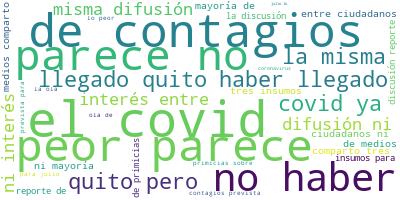
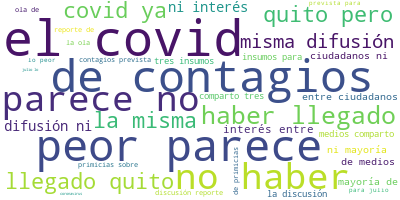
Configuraciones pequeñas

diff --git a/templates/LDA_Visualization.html b/templates/LDA_Visualization.html
@@ -2,10 +2,10 @@
 <link rel="stylesheet" type="text/css" href="https://cdn.rawgit.com/bmabey/pyLDAvis/files/ldavis.v1.0.0.css">
 
 
-<div id="ldavis_el10291402704959600802111671174"></div>
+<div id="ldavis_el6752140016528937584936342769"></div>
 <script type="text/javascript">
 
-var ldavis_el10291402704959600802111671174_data = {"mdsDat": {"x": [-0.32475222250756747, 0.10683390195590083, 0.11824304007929676, 0.09967528047237002], "y": [0.0013994095997082005, -0.18754934014652933, 0.10429597854782896, 0.08185395199899229], "topics": [1, 2, 3, 4], "cluster": [1, 1, 1, 1], "Freq": [55.69374084472656, 22.546977996826172, 13.516884803771973, 8.242401123046875]}, "tinfo": {"Term": ["coronavirus", "covid", "casos", "menos", "misma", "ciudadanos", "discusi\u00f3n", "inter\u00e9s", "primicias", "difusi\u00f3n", "parece", "insumos", "tres", "reporte", "llegado", "ola", "peor", "medios", "comparto", "julio", "haber", "mayor\u00eda", "prevista", "quito", "fracaso", "\u00e9xito", "olvidar", "difunde", "centralista", "cifras", "misma", "ciudadanos", "discusi\u00f3n", "inter\u00e9s", "primicias", "difusi\u00f3n", "parece", "insumos", "reporte", "tres", "llegado", "ola", "peor", "medios", "comparto", "julio", "haber", "mayor\u00eda", "prevista", "quito", "contagios", "modelo", "aunque", "exitoso", "sabemos", "destacado", "salir", "duela", "prensa", "lucha", "covid", "internacional", "casos", "fallecidos", "confirmados", "sem\u00e1foro", "amarillo", "pasar\u00edan", "alistan", "pedernales", "decisi\u00f3n", "tosagua", "frente", "manab\u00ed", "portoviejo", "tomar\u00e1", "ma\u00f1ana", "cambio", "semana", "mientras", "cantones", "urgente", "provincia", "oro", "positivos", "probables", "d\u00edas", "campeonato", "reanudaci\u00f3n", "premierleague", "\u00faltimas", "ascendi\u00f3", "dos", "coronavirus", "covid", "junio", "ecuador", "contagios", "cifras", "oficiales", "p\u00fablica", "salud", "ministerio", "domingo", "present\u00f3", "estudio", "mort\u00edfero", "alem\u00e1n", "hendrik", "cre\u00edamos", "vir\u00f3logo", "bastante", "streeck", "clave", "autor", "cobrar", "quiere", "paciente", "salv\u00f3", "cl\u00ednica", "emergencia", "infobae", "sospechosos", "pol\u00e9mica", "incluir\u00e1", "registros", "anunci\u00f3", "tras", "coronavirus", "junio", "ecuador", "covid", "menos", "d\u00f3lares", "muertos", "mill\u00f3n", "fracaso", "\u00e9xito", "olvidar", "difunde", "centralista", "gratis", "doctor", "muere", "pueblo", "lamentable", "conocido", "nicaragua", "m\u00e9dico", "atend\u00eda", "menos", "italia", "grupo", "vacunas", "astrazeneca", "listas", "acuerdo", "francia", "podr\u00edan", "suministro", "holanda", "firman", "alemania", "finales", "farmac\u00e9utico", "millones", "coronavirus", "covid", "mill\u00f3n", "d\u00f3lares"], "Freq": [24.0, 81.0, 11.0, 7.0, 34.0, 34.0, 34.0, 34.0, 34.0, 34.0, 34.0, 34.0, 34.0, 34.0, 34.0, 34.0, 34.0, 34.0, 34.0, 34.0, 34.0, 34.0, 34.0, 34.0, 5.0, 5.0, 5.0, 5.0, 5.0, 6.0, 33.97970199584961, 33.977298736572266, 33.976131439208984, 33.9749870300293, 33.97352600097656, 33.97194290161133, 33.970848083496094, 33.970458984375, 33.96845245361328, 33.96860122680664, 33.96721649169922, 33.96628952026367, 33.96529769897461, 33.9625358581543, 33.960975646972656, 33.95484924316406, 33.950531005859375, 33.949440002441406, 33.949066162109375, 33.94816207885742, 33.95392608642578, 3.8833329677581787, 2.0559520721435547, 2.055867910385132, 2.055863380432129, 2.0558290481567383, 2.0558221340179443, 2.0558221340179443, 2.055805206298828, 2.0557994842529297, 40.94664001464844, 2.969898223876953, 10.80838680267334, 8.361785888671875, 7.545334339141846, 7.532787799835205, 7.529610633850098, 6.720656871795654, 6.718166351318359, 6.718085289001465, 6.717998027801514, 6.7179059982299805, 6.716792106628418, 6.716370582580566, 6.716288089752197, 6.715101718902588, 6.7139811515808105, 6.713921070098877, 6.7136359214782715, 6.713377475738525, 6.712666034698486, 5.1048078536987305, 4.28826379776001, 4.288029193878174, 2.6533079147338867, 2.644927501678467, 1.8377904891967773, 1.8377881050109863, 1.8377851247787476, 1.8377550840377808, 1.8299899101257324, 1.8299291133880615, 3.47161602973938, 10.871940612792969, 25.561349868774414, 4.254214286804199, 3.210143566131592, 3.5305721759796143, 5.930454730987549, 5.930118083953857, 4.432905197143555, 4.4328813552856445, 4.432243824005127, 3.7782437801361084, 3.778085708618164, 3.770775318145752, 3.051753282546997, 3.0515494346618652, 3.0512008666992188, 3.050093173980713, 3.049628257751465, 3.049628734588623, 3.0494470596313477, 3.0493922233581543, 3.048433542251587, 2.3389275074005127, 2.3389158248901367, 2.3389170169830322, 2.3389153480529785, 2.3389110565185547, 2.3388831615448, 2.3355305194854736, 2.332383155822754, 2.3322861194610596, 2.332082509994507, 2.331812858581543, 2.3316774368286133, 2.3314199447631836, 8.714354515075684, 4.461788177490234, 4.008627891540527, 11.269076347351074, 3.0610105991363525, 2.3389456272125244, 2.3415639400482178, 2.3389151096343994, 4.454372406005859, 4.453939437866211, 4.453823089599609, 4.453351020812988, 4.452757835388184, 1.3886051177978516, 1.3886051177978516, 1.3886018991470337, 1.3885998725891113, 1.3885972499847412, 1.388588786125183, 1.388584017753601, 1.3885806798934937, 1.3885732889175415, 4.453544616699219, 0.7714468836784363, 0.771446168422699, 0.7714444398880005, 0.7714440226554871, 0.7714440226554871, 0.7714434862136841, 0.7714433073997498, 0.7714424729347229, 0.7714425921440125, 0.7714422941207886, 0.771441638469696, 0.7714413404464722, 0.7714402079582214, 0.7714376449584961, 0.7714353203773499, 3.8596322536468506, 3.2418668270111084, 0.7714561820030212, 0.7714488506317139], "Total": [24.0, 81.0, 11.0, 7.0, 34.0, 34.0, 34.0, 34.0, 34.0, 34.0, 34.0, 34.0, 34.0, 34.0, 34.0, 34.0, 34.0, 34.0, 34.0, 34.0, 34.0, 34.0, 34.0, 34.0, 5.0, 5.0, 5.0, 5.0, 5.0, 6.0, 34.57792282104492, 34.57757568359375, 34.57725524902344, 34.57712173461914, 34.57712936401367, 34.57712936401367, 34.57659149169922, 34.57682418823242, 34.57632827758789, 34.57648468017578, 34.57643127441406, 34.57642364501953, 34.5759162902832, 34.57583236694336, 34.57624053955078, 34.57508850097656, 34.57465744018555, 34.574588775634766, 34.57441329956055, 34.57413101196289, 37.84087371826172, 4.42276668548584, 2.594813823699951, 2.5947964191436768, 2.594794511795044, 2.59478759765625, 2.5947864055633545, 2.594787120819092, 2.5947818756103516, 2.5947821140289307, 81.01892852783203, 4.948365688323975, 11.384801864624023, 8.934197425842285, 8.116990089416504, 8.115557670593262, 8.115039825439453, 7.299595355987549, 7.2993035316467285, 7.299289226531982, 7.299278259277344, 7.299266338348389, 7.29913330078125, 7.299084663391113, 7.299077987670898, 7.298940181732178, 7.298803329467773, 7.298800468444824, 7.298759460449219, 7.298727512359619, 7.298646450042725, 5.668006896972656, 4.8511857986450195, 4.851164817810059, 3.217308521270752, 3.216310501098633, 2.4006094932556152, 2.400608539581299, 2.400609254837036, 2.4006059169769287, 2.399679183959961, 2.399672508239746, 4.948215007781982, 24.66024398803711, 81.01892852783203, 9.179734230041504, 7.601770401000977, 37.84087371826172, 6.525536060333252, 6.5255842208862305, 5.093945026397705, 5.093941688537598, 5.094033241271973, 4.3654866218566895, 4.365503311157227, 4.366491794586182, 3.646683692932129, 3.6467177867889404, 3.6467671394348145, 3.6469123363494873, 3.646974802017212, 3.646976947784424, 3.6470000743865967, 3.647007703781128, 3.64713716506958, 2.926053285598755, 2.9260542392730713, 2.9260566234588623, 2.926055669784546, 2.9260523319244385, 2.926053047180176, 2.9265124797821045, 2.9269347190856934, 2.926947593688965, 2.9269776344299316, 2.927013635635376, 2.9270341396331787, 2.9270670413970947, 24.66024398803711, 9.179734230041504, 7.601770401000977, 81.01892852783203, 7.974576473236084, 3.5432283878326416, 4.559365749359131, 3.543231964111328, 5.094605922698975, 5.094753265380859, 5.094755172729492, 5.094905853271484, 5.095026969909668, 2.0013134479522705, 2.001314163208008, 2.001314640045166, 2.001314640045166, 2.001316547393799, 2.001319169998169, 2.0013208389282227, 2.001322031021118, 2.001324415206909, 7.974576473236084, 1.384118914604187, 1.3841192722320557, 1.384119987487793, 1.3841196298599243, 1.384119987487793, 1.3841197490692139, 1.3841198682785034, 1.384119987487793, 1.3841204643249512, 1.3841204643249512, 1.3841204643249512, 1.3841207027435303, 1.3841207027435303, 1.3841215372085571, 1.384122371673584, 24.66024398803711, 81.01892852783203, 3.543231964111328, 3.5432283878326416], "Category": ["Default", "Default", "Default", "Default", "Default", "Default", "Default", "Default", "Default", "Default", "Default", "Default", "Default", "Default", "Default", "Default", "Default", "Default", "Default", "Default", "Default", "Default", "Default", "Default", "Default", "Default", "Default", "Default", "Default", "Default", "Topic1", "Topic1", "Topic1", "Topic1", "Topic1", "Topic1", "Topic1", "Topic1", "Topic1", "Topic1", "Topic1", "Topic1", "Topic1", "Topic1", "Topic1", "Topic1", "Topic1", "Topic1", "Topic1", "Topic1", "Topic1", "Topic1", "Topic1", "Topic1", "Topic1", "Topic1", "Topic1", "Topic1", "Topic1", "Topic1", "Topic1", "Topic1", "Topic2", "Topic2", "Topic2", "Topic2", "Topic2", "Topic2", "Topic2", "Topic2", "Topic2", "Topic2", "Topic2", "Topic2", "Topic2", "Topic2", "Topic2", "Topic2", "Topic2", "Topic2", "Topic2", "Topic2", "Topic2", "Topic2", "Topic2", "Topic2", "Topic2", "Topic2", "Topic2", "Topic2", "Topic2", "Topic2", "Topic2", "Topic2", "Topic2", "Topic2", "Topic2", "Topic2", "Topic3", "Topic3", "Topic3", "Topic3", "Topic3", "Topic3", "Topic3", "Topic3", "Topic3", "Topic3", "Topic3", "Topic3", "Topic3", "Topic3", "Topic3", "Topic3", "Topic3", "Topic3", "Topic3", "Topic3", "Topic3", "Topic3", "Topic3", "Topic3", "Topic3", "Topic3", "Topic3", "Topic3", "Topic3", "Topic3", "Topic3", "Topic3", "Topic3", "Topic3", "Topic3", "Topic3", "Topic3", "Topic3", "Topic4", "Topic4", "Topic4", "Topic4", "Topic4", "Topic4", "Topic4", "Topic4", "Topic4", "Topic4", "Topic4", "Topic4", "Topic4", "Topic4", "Topic4", "Topic4", "Topic4", "Topic4", "Topic4", "Topic4", "Topic4", "Topic4", "Topic4", "Topic4", "Topic4", "Topic4", "Topic4", "Topic4", "Topic4", "Topic4", "Topic4", "Topic4", "Topic4", "Topic4"], "logprob": [30.0, 29.0, 28.0, 27.0, 26.0, 25.0, 24.0, 23.0, 22.0, 21.0, 20.0, 19.0, 18.0, 17.0, 16.0, 15.0, 14.0, 13.0, 12.0, 11.0, 10.0, 9.0, 8.0, 7.0, 6.0, 5.0, 4.0, 3.0, 2.0, 1.0, -3.2734999656677246, -3.2736001014709473, -3.2736001014709473, -3.273699998855591, -3.273699998855591, -3.2737998962402344, -3.2737998962402344, -3.2737998962402344, -3.273900032043457, -3.273900032043457, -3.273900032043457, -3.273900032043457, -3.2739999294281006, -3.2741000652313232, -3.2741000652313232, -3.2743000984191895, -3.274399995803833, -3.274399995803833, -3.274399995803833, -3.2744998931884766, -3.2743000984191895, -5.442599773406982, -6.07859992980957, -6.07859992980957, -6.07859992980957, -6.07859992980957, -6.07859992980957, -6.07859992980957, -6.07859992980957, -6.07859992980957, -3.0869998931884766, -5.7108001708984375, -3.514699935913086, -3.771399974822998, -3.8740999698638916, -3.8757998943328857, -3.876199960708618, -3.9899001121520996, -3.9902000427246094, -3.9902000427246094, -3.990299940109253, -3.990299940109253, -3.9904000759124756, -3.990499973297119, -3.990499973297119, -3.9907000064849854, -3.990799903869629, -3.9909000396728516, -3.9909000396728516, -3.9909000396728516, -3.990999937057495, -4.264900207519531, -4.439199924468994, -4.439199924468994, -4.9191999435424805, -4.922399997711182, -5.286499977111816, -5.286499977111816, -5.286499977111816, -5.286499977111816, -5.2906999588012695, -5.290800094604492, -4.650400161743164, -3.5088999271392822, -2.6540000438690186, -4.4471001625061035, -4.728700160980225, -4.633600234985352, -3.603300094604492, -3.603300094604492, -3.8942999839782715, -3.8942999839782715, -3.8945000171661377, -4.054100036621094, -4.054200172424316, -4.056099891662598, -4.2677001953125, -4.2677001953125, -4.2677998542785645, -4.268199920654297, -4.268400192260742, -4.268400192260742, -4.268400192260742, -4.268400192260742, -4.268799781799316, -4.533699989318848, -4.533699989318848, -4.533699989318848, -4.533699989318848, -4.533699989318848, -4.533699989318848, -4.535099983215332, -4.536499977111816, -4.536499977111816, -4.536600112915039, -4.5366997718811035, -4.536799907684326, -4.536900043487549, -3.218400001525879, -3.8877999782562256, -3.9948999881744385, -2.9612998962402344, -4.264599800109863, -4.533699989318848, -4.532599925994873, -4.533699989318848, -3.3947999477386475, -3.39490008354187, -3.3949999809265137, -3.3951001167297363, -3.39520001411438, -4.560400009155273, -4.560400009155273, -4.560400009155273, -4.560400009155273, -4.560400009155273, -4.560400009155273, -4.560400009155273, -4.560400009155273, -4.560500144958496, -3.3949999809265137, -5.148200035095215, -5.148200035095215, -5.148200035095215, -5.148200035095215, -5.148200035095215, -5.148200035095215, -5.148200035095215, -5.148200035095215, -5.148200035095215, -5.148200035095215, -5.148200035095215, -5.148200035095215, -5.148200035095215, -5.148200035095215, -5.148200035095215, -3.5381999015808105, -3.712599992752075, -5.148200035095215, -5.148200035095215], "loglift": [30.0, 29.0, 28.0, 27.0, 26.0, 25.0, 24.0, 23.0, 22.0, 21.0, 20.0, 19.0, 18.0, 17.0, 16.0, 15.0, 14.0, 13.0, 12.0, 11.0, 10.0, 9.0, 8.0, 7.0, 6.0, 5.0, 4.0, 3.0, 2.0, 1.0, 0.5679000020027161, 0.567799985408783, 0.567799985408783, 0.5677000284194946, 0.5677000284194946, 0.5676000118255615, 0.5676000118255615, 0.5676000118255615, 0.5676000118255615, 0.5676000118255615, 0.5674999952316284, 0.5674999952316284, 0.5674999952316284, 0.5673999786376953, 0.567300021648407, 0.5672000050544739, 0.5670999884605408, 0.5670999884605408, 0.5669999718666077, 0.5669999718666077, 0.47690001130104065, 0.4551999866962433, 0.35249999165534973, 0.35249999165534973, 0.35249999165534973, 0.35249999165534973, 0.35249999165534973, 0.35249999165534973, 0.35249999165534973, 0.35249999165534973, -0.09709999710321426, 0.07479999959468842, 1.437600016593933, 1.4234000444412231, 1.4164999723434448, 1.4150999784469604, 1.4147000312805176, 1.4069000482559204, 1.406599998474121, 1.406599998474121, 1.406599998474121, 1.406599998474121, 1.4063999652862549, 1.4063999652862549, 1.4063999652862549, 1.4062000513076782, 1.4061000347137451, 1.406000018119812, 1.406000018119812, 1.406000018119812, 1.405900001525879, 1.3848999738693237, 1.3661999702453613, 1.3661999702453613, 1.2968000173568726, 1.2940000295639038, 1.2223999500274658, 1.2223999500274658, 1.2223999500274658, 1.2223999500274658, 1.218500018119812, 1.218500018119812, 1.135200023651123, 0.6705999970436096, 0.335999995470047, 0.7204999923706055, 0.6274999976158142, -0.8823999762535095, 1.9055999517440796, 1.905500054359436, 1.8622000217437744, 1.8622000217437744, 1.8621000051498413, 1.8567999601364136, 1.8566999435424805, 1.854599952697754, 1.823099970817566, 1.823099970817566, 1.8229000568389893, 1.8224999904632568, 1.8223999738693237, 1.8223999738693237, 1.8222999572753906, 1.8222999572753906, 1.8219000101089478, 1.7773000001907349, 1.7773000001907349, 1.7773000001907349, 1.7773000001907349, 1.7773000001907349, 1.7771999835968018, 1.7756999731063843, 1.7741999626159668, 1.7740999460220337, 1.7740000486373901, 1.773900032043457, 1.773800015449524, 1.7736999988555908, 0.9610000252723694, 1.2798000574111938, 1.361299991607666, 0.028599999845027924, 1.0436999797821045, 1.5858999490737915, 1.3349000215530396, 1.5858999490737915, 2.361599922180176, 2.3615000247955322, 2.3613998889923096, 2.361299991607666, 2.3610999584198, 2.1303999423980713, 2.1303999423980713, 2.1303999423980713, 2.1303999423980713, 2.1303999423980713, 2.1303999423980713, 2.1303999423980713, 2.1303999423980713, 2.1303000450134277, 1.9133000373840332, 1.9112999439239502, 1.9112999439239502, 1.9112999439239502, 1.9112999439239502, 1.9112999439239502, 1.9112999439239502, 1.9112999439239502, 1.9112999439239502, 1.9112999439239502, 1.9112999439239502, 1.9112999439239502, 1.9112999439239502, 1.9112999439239502, 1.9112999439239502, 1.9112999439239502, 0.6413000226020813, -0.7226999998092651, 0.9714000225067139, 0.9714000225067139]}, "token.table": {"Topic": [4, 4, 3, 2, 2, 3, 2, 4, 4, 1, 3, 3, 2, 2, 2, 2, 4, 3, 1, 3, 3, 3, 1, 2, 4, 1, 2, 1, 2, 3, 4, 1, 2, 3, 4, 3, 2, 1, 4, 1, 1, 4, 3, 1, 2, 1, 2, 3, 4, 2, 3, 3, 3, 1, 2, 4, 4, 4, 4, 4, 2, 4, 4, 1, 3, 4, 3, 3, 1, 1, 3, 1, 4, 1, 2, 3, 4, 4, 1, 1, 2, 1, 2, 1, 3, 4, 2, 4, 3, 4, 3, 1, 1, 3, 4, 2, 3, 4, 4, 3, 1, 4, 2, 3, 1, 2, 2, 1, 4, 3, 2, 2, 2, 1, 3, 1, 1, 2, 2, 4, 3, 3, 1, 2, 3, 1, 1, 1, 3, 3, 2, 2, 3, 3, 4, 2, 2, 3, 1, 2, 4, 3, 4, 2], "Freq": [0.722480833530426, 0.7224803566932678, 0.822657585144043, 0.9589955806732178, 0.9858238697052002, 0.6832855343818665, 0.8334470391273499, 0.7224808931350708, 0.4996691048145294, 0.7707682251930237, 0.8225629925727844, 0.8225991129875183, 0.9590616822242737, 0.8331220746040344, 0.9590819478034973, 0.9662004113197327, 0.7850792407989502, 0.9194647073745728, 0.9832962155342102, 0.8225921988487244, 0.6835147738456726, 0.6835145354270935, 0.9833341836929321, 0.9855870008468628, 0.4996704161167145, 0.8984993100166321, 0.10570580512285233, 0.04055109992623329, 0.4460620880126953, 0.3649598956108093, 0.16220439970493317, 0.5060545802116394, 0.3209126591682434, 0.1357707381248474, 0.03702838346362114, 0.8226136565208435, 0.9589989185333252, 0.7707759737968445, 0.7850978970527649, 0.9833089113235474, 0.9833053350448608, 0.49967166781425476, 0.9162781238555908, 0.20209307968616486, 0.6062792539596558, 0.7707761526107788, 0.8331217765808105, 0.5644569993019104, 0.2822284996509552, 0.39464491605758667, 0.5261932015419006, 0.6835145950317383, 0.9160672426223755, 0.7707733511924744, 0.8954357504844666, 0.7224798798561096, 0.7224803566932678, 0.7224804759025574, 0.7851441502571106, 0.7224807739257812, 0.9590179920196533, 0.4996718466281891, 0.7224810719490051, 0.9833792448043823, 0.82264643907547, 0.7224804759025574, 0.6832987070083618, 0.6834073066711426, 0.9833176136016846, 0.6062607765197754, 0.4041738510131836, 0.9833091497421265, 0.7224812507629395, 0.9833669662475586, 0.43574246764183044, 0.43574246764183044, 0.499671071767807, 0.7224807143211365, 0.9833287596702576, 0.7707776427268982, 0.9590243697166443, 0.9833812117576599, 0.959061324596405, 0.9833458065986633, 0.3761955201625824, 0.5015940070152283, 0.9590712785720825, 0.7224794626235962, 0.5644564032554626, 0.2822282016277313, 0.785232424736023, 0.9832863807678223, 0.904411256313324, 0.822665274143219, 0.4996715486049652, 0.4386574923992157, 0.4386574923992157, 0.4996697008609772, 0.49966999888420105, 0.9194579124450684, 0.9833289980888367, 0.7851211428642273, 0.8245442509651184, 0.6835137605667114, 0.9833242297172546, 0.9589572548866272, 0.9589974880218506, 0.9833434224128723, 0.7224807143211365, 0.6833056807518005, 0.9590252637863159, 0.9324564337730408, 0.8331230282783508, 0.770777702331543, 0.9162746667861938, 0.9833861589431763, 0.9833089113235474, 0.9327457547187805, 0.8245406746864319, 0.4996715486049652, 0.7852460145950317, 0.6835143566131592, 0.983394205570221, 0.8331218361854553, 0.6832903027534485, 0.9833316802978516, 0.7707739472389221, 0.7707763314247131, 0.7852465510368347, 0.6835139989852905, 0.9590671062469482, 0.9857609868049622, 0.6833087205886841, 0.8225938677787781, 0.7224804759025574, 0.9590433239936829, 0.9590004682540894, 0.6832778453826904, 0.9833272695541382, 0.8821443319320679, 0.7224807143211365, 0.8225995898246765, 0.7851214408874512, 0.8334447145462036], "Term": ["acuerdo", "alemania", "alem\u00e1n", "alistan", "amarillo", "anunci\u00f3", "ascendi\u00f3", "astrazeneca", "atend\u00eda", "aunque", "autor", "bastante", "cambio", "campeonato", "cantones", "casos", "centralista", "cifras", "ciudadanos", "clave", "cl\u00ednica", "cobrar", "comparto", "confirmados", "conocido", "contagios", "contagios", "coronavirus", "coronavirus", "coronavirus", "coronavirus", "covid", "covid", "covid", "covid", "cre\u00edamos", "decisi\u00f3n", "destacado", "difunde", "difusi\u00f3n", "discusi\u00f3n", "doctor", "domingo", "dos", "dos", "duela", "d\u00edas", "d\u00f3lares", "d\u00f3lares", "ecuador", "ecuador", "emergencia", "estudio", "exitoso", "fallecidos", "farmac\u00e9utico", "finales", "firman", "fracaso", "francia", "frente", "gratis", "grupo", "haber", "hendrik", "holanda", "incluir\u00e1", "infobae", "insumos", "internacional", "internacional", "inter\u00e9s", "italia", "julio", "junio", "junio", "lamentable", "listas", "llegado", "lucha", "manab\u00ed", "mayor\u00eda", "ma\u00f1ana", "medios", "menos", "menos", "mientras", "millones", "mill\u00f3n", "mill\u00f3n", "ministerio", "misma", "modelo", "mort\u00edfero", "muere", "muertos", "muertos", "m\u00e9dico", "nicaragua", "oficiales", "ola", "olvidar", "oro", "paciente", "parece", "pasar\u00edan", "pedernales", "peor", "podr\u00edan", "pol\u00e9mica", "portoviejo", "positivos", "premierleague", "prensa", "present\u00f3", "prevista", "primicias", "probables", "provincia", "pueblo", "p\u00fablica", "quiere", "quito", "reanudaci\u00f3n", "registros", "reporte", "sabemos", "salir", "salud", "salv\u00f3", "semana", "sem\u00e1foro", "sospechosos", "streeck", "suministro", "tomar\u00e1", "tosagua", "tras", "tres", "urgente", "vacunas", "vir\u00f3logo", "\u00e9xito", "\u00faltimas"]}, "R": 30, "lambda.step": 0.01, "plot.opts": {"xlab": "PC1", "ylab": "PC2"}, "topic.order": [4, 1, 3, 2]};
+var ldavis_el6752140016528937584936342769_data = {"mdsDat": {"x": [-0.27420700352518695, 0.17820986624939616, 0.05048745802631038, 0.04550967924948038], "y": [0.05470658168853159, 0.13788388917289274, -0.16204236674284966, -0.030548104118574664], "topics": [1, 2, 3, 4], "cluster": [1, 1, 1, 1], "Freq": [69.9549789428711, 17.340044021606445, 10.46790599822998, 2.2370641231536865]}, "tinfo": {"Term": ["coronavirus", "covid", "\u00e9xito", "menos", "contagios", "fracaso", "olvidar", "difunde", "centralista", "amarillo", "sem\u00e1foro", "ma\u00f1ana", "pasar\u00edan", "manab\u00ed", "tosagua", "semana", "frente", "alistan", "pedernales", "cantones", "portoviejo", "mientras", "cambio", "decisi\u00f3n", "tomar\u00e1", "fallecidos", "tres", "primicias", "llegado", "haber", "tres", "primicias", "llegado", "haber", "prevista", "mayor\u00eda", "ciudadanos", "reporte", "difusi\u00f3n", "julio", "discusi\u00f3n", "medios", "peor", "quito", "parece", "ola", "insumos", "comparto", "inter\u00e9s", "misma", "oficiales", "cifras", "salud", "p\u00fablica", "urgente", "ministerio", "contagios", "present\u00f3", "provincia", "domingo", "covid", "ecuador", "coronavirus", "junio", "casos", "fallecidos", "confirmados", "fracaso", "difunde", "olvidar", "centralista", "amarillo", "sem\u00e1foro", "pasar\u00edan", "ma\u00f1ana", "manab\u00ed", "tosagua", "semana", "frente", "cantones", "pedernales", "alistan", "mientras", "portoviejo", "cambio", "decisi\u00f3n", "tomar\u00e1", "\u00e9xito", "dos", "quevedo", "reanudaci\u00f3n", "d\u00edas", "premierleague", "campeonato", "menos", "minsaludcol", "circule", "positivos", "covid", "casos", "coronavirus", "mort\u00edfero", "cre\u00edamos", "bastante", "clave", "hendrik", "autor", "streeck", "vir\u00f3logo", "alem\u00e1n", "estudio", "emergencia", "cl\u00ednica", "salv\u00f3", "mill\u00f3n", "d\u00f3lares", "paciente", "cobrar", "quiere", "infobae", "decir", "n\u00famero", "horas", "tungurahua", "ascendi\u00f3", "totaliza", "cifra", "\u00faltimas", "pese", "ven", "bien", "coronavirus", "fallecidos", "covid", "menos", "contagios", "casos", "probables", "confirmados", "vacuna", "contacte", "domicilio", "l\u00ednea", "permanec\u00e9", "cuidarteescuidarnos", "s\u00edntomas", "dudas", "automediques", "ciudadana", "si", "alguien", "vez", "precio", "seguro", "cierto", "china", "larguen", "manual", "aumenta", "existia", "duda", "chinos", "cient\u00edfico", "mueren", "mundo", "atenci\u00f3n", "quedateencasa", "vivir", "superficies", "\u00e9xito", "coronavirus", "covid"], "Freq": [24.0, 89.0, 8.0, 10.0, 38.0, 7.0, 7.0, 7.0, 7.0, 7.0, 7.0, 6.0, 6.0, 6.0, 6.0, 6.0, 6.0, 6.0, 6.0, 6.0, 6.0, 6.0, 6.0, 6.0, 6.0, 9.0, 36.0, 36.0, 36.0, 36.0, 35.73833084106445, 35.73827362060547, 35.73794937133789, 35.73789596557617, 35.737796783447266, 35.73777389526367, 35.73757553100586, 35.73757553100586, 35.73752975463867, 35.73748779296875, 35.737464904785156, 35.73727035522461, 35.73720169067383, 35.737098693847656, 35.736995697021484, 35.73674774169922, 35.73663330078125, 35.73646926879883, 35.736385345458984, 35.73588562011719, 7.708412170410156, 7.708383083343506, 5.839696407318115, 5.83967924118042, 5.8395795822143555, 5.8395304679870605, 35.7469482421875, 4.9053053855896, 4.905224323272705, 4.905195236206055, 69.40850067138672, 7.7140326499938965, 14.269923210144043, 6.774707317352295, 6.7798075675964355, 5.848621368408203, 5.844374656677246, 7.253996849060059, 7.253847122192383, 7.253851890563965, 7.253874778747559, 7.241306304931641, 7.2401604652404785, 6.457016944885254, 6.456346035003662, 6.456681728363037, 6.4564385414123535, 6.456882953643799, 6.455746173858643, 6.455789566040039, 6.455489635467529, 6.4554924964904785, 6.454965591430664, 6.454167366027832, 6.4536824226379395, 6.453633785247803, 6.451665878295898, 7.253974437713623, 4.11459493637085, 1.7645049095153809, 1.7644908428192139, 1.7644712924957275, 1.7644684314727783, 1.764456033706665, 7.2538065910339355, 0.9802780747413635, 0.9802771210670471, 1.7644034624099731, 11.937551498413086, 2.5483028888702393, 2.547881603240967, 2.9225711822509766, 2.9219846725463867, 2.9219021797180176, 2.9213480949401855, 2.92093563079834, 2.9205944538116455, 2.920581579208374, 2.9201669692993164, 2.919959783554077, 2.919764280319214, 2.2444214820861816, 2.2444167137145996, 2.2444205284118652, 2.2444076538085938, 2.2444028854370117, 2.2443909645080566, 2.2443909645080566, 2.2443909645080566, 2.236189842224121, 1.5504355430603027, 1.550255537033081, 1.549899935722351, 1.5497972965240479, 1.5495936870574951, 1.549088716506958, 1.5487350225448608, 1.548429012298584, 1.547722339630127, 1.5477161407470703, 1.5477138757705688, 7.058746814727783, 2.926434278488159, 7.068848609924316, 2.9207212924957275, 2.928252696990967, 2.2394165992736816, 1.5500010251998901, 1.549895167350769, 0.7321838140487671, 0.407958447933197, 0.40795764327049255, 0.40795645117759705, 0.4079551696777344, 0.40795525908470154, 0.40795403718948364, 0.40795403718948364, 0.4079533517360687, 0.40795284509658813, 0.40795210003852844, 0.4072315990924835, 0.40721362829208374, 0.40706732869148254, 0.40705594420433044, 0.40704935789108276, 0.40704554319381714, 0.4069317877292633, 0.40692469477653503, 0.4069015085697174, 0.4068809747695923, 0.40683454275131226, 0.4068039059638977, 0.406781405210495, 0.40675878524780273, 0.40694326162338257, 0.40846818685531616, 0.4079441428184509, 0.08160267025232315, 0.08160244673490524, 0.40679311752319336, 0.7371487021446228, 0.7383221387863159], "Total": [24.0, 89.0, 8.0, 10.0, 38.0, 7.0, 7.0, 7.0, 7.0, 7.0, 7.0, 6.0, 6.0, 6.0, 6.0, 6.0, 6.0, 6.0, 6.0, 6.0, 6.0, 6.0, 6.0, 6.0, 6.0, 9.0, 36.0, 36.0, 36.0, 36.0, 36.19048309326172, 36.19044876098633, 36.19032669067383, 36.190345764160156, 36.190303802490234, 36.190311431884766, 36.19026565551758, 36.19026565551758, 36.190223693847656, 36.190216064453125, 36.190208435058594, 36.19015121459961, 36.19013214111328, 36.19011306762695, 36.19010925292969, 36.19001388549805, 36.190040588378906, 36.18996810913086, 36.1899299621582, 36.18978500366211, 8.158918380737305, 8.158900260925293, 6.290132999420166, 6.290133953094482, 6.290101051330566, 6.290076732635498, 38.954132080078125, 5.35573673248291, 5.355693817138672, 5.35569429397583, 89.1532211303711, 9.541090965270996, 24.613698959350586, 9.483718872070312, 11.64982795715332, 9.053842544555664, 8.456268310546875, 7.742218971252441, 7.742151737213135, 7.742175102233887, 7.742201805114746, 7.73953914642334, 7.739302158355713, 6.95511531829834, 6.954522609710693, 6.955197811126709, 6.955020427703857, 6.955531597137451, 6.954605579376221, 6.954836368560791, 6.95457649230957, 6.954586029052734, 6.954759120941162, 6.953920841217041, 6.954422950744629, 6.9551615715026855, 6.954051494598389, 8.070883750915527, 4.605687618255615, 2.2524092197418213, 2.2524001598358154, 2.252396821975708, 2.2524025440216064, 2.252403497695923, 10.504366874694824, 1.4681439399719238, 1.468143105506897, 3.1866414546966553, 89.1532211303711, 11.64982795715332, 24.613698959350586, 3.4454541206359863, 3.4456372261047363, 3.4456729888916016, 3.4458649158477783, 3.4460179805755615, 3.446129322052002, 3.446134090423584, 3.4463047981262207, 3.4463441371917725, 3.4464235305786133, 2.7557716369628906, 2.7557668685913086, 2.7557759284973145, 2.7557740211486816, 2.75577712059021, 2.755765676498413, 2.755777597427368, 2.755779504776001, 2.7586779594421387, 2.0655264854431152, 2.0657901763916016, 2.0657360553741455, 2.0657296180725098, 2.0658957958221436, 2.0660691261291504, 2.0659449100494385, 2.0660955905914307, 2.0672836303710938, 2.0672800540924072, 2.0672826766967773, 24.613698959350586, 9.053842544555664, 89.1532211303711, 10.504366874694824, 38.954132080078125, 11.64982795715332, 2.998868942260742, 8.456268310546875, 1.3406944274902344, 1.0103068351745605, 1.010308861732483, 1.0103106498718262, 1.0103117227554321, 1.0103119611740112, 1.0103132724761963, 1.0103132724761963, 1.0103144645690918, 1.010314702987671, 1.0103155374526978, 1.0116617679595947, 1.011695384979248, 1.011967658996582, 1.0119894742965698, 1.0119998455047607, 1.0120079517364502, 1.0122195482254028, 1.0122319459915161, 1.0122761726379395, 1.0123140811920166, 1.0124011039733887, 1.012458086013794, 1.0125001668930054, 1.0125421285629272, 1.9464340209960938, 2.392401933670044, 2.87898325920105, 1.374518632888794, 1.3745216131210327, 8.070883750915527, 24.613698959350586, 89.1532211303711], "Category": ["Default", "Default", "Default", "Default", "Default", "Default", "Default", "Default", "Default", "Default", "Default", "Default", "Default", "Default", "Default", "Default", "Default", "Default", "Default", "Default", "Default", "Default", "Default", "Default", "Default", "Default", "Default", "Default", "Default", "Default", "Topic1", "Topic1", "Topic1", "Topic1", "Topic1", "Topic1", "Topic1", "Topic1", "Topic1", "Topic1", "Topic1", "Topic1", "Topic1", "Topic1", "Topic1", "Topic1", "Topic1", "Topic1", "Topic1", "Topic1", "Topic1", "Topic1", "Topic1", "Topic1", "Topic1", "Topic1", "Topic1", "Topic1", "Topic1", "Topic1", "Topic1", "Topic1", "Topic1", "Topic1", "Topic1", "Topic1", "Topic1", "Topic2", "Topic2", "Topic2", "Topic2", "Topic2", "Topic2", "Topic2", "Topic2", "Topic2", "Topic2", "Topic2", "Topic2", "Topic2", "Topic2", "Topic2", "Topic2", "Topic2", "Topic2", "Topic2", "Topic2", "Topic2", "Topic2", "Topic2", "Topic2", "Topic2", "Topic2", "Topic2", "Topic2", "Topic2", "Topic2", "Topic2", "Topic2", "Topic2", "Topic2", "Topic3", "Topic3", "Topic3", "Topic3", "Topic3", "Topic3", "Topic3", "Topic3", "Topic3", "Topic3", "Topic3", "Topic3", "Topic3", "Topic3", "Topic3", "Topic3", "Topic3", "Topic3", "Topic3", "Topic3", "Topic3", "Topic3", "Topic3", "Topic3", "Topic3", "Topic3", "Topic3", "Topic3", "Topic3", "Topic3", "Topic3", "Topic3", "Topic3", "Topic3", "Topic3", "Topic3", "Topic3", "Topic3", "Topic4", "Topic4", "Topic4", "Topic4", "Topic4", "Topic4", "Topic4", "Topic4", "Topic4", "Topic4", "Topic4", "Topic4", "Topic4", "Topic4", "Topic4", "Topic4", "Topic4", "Topic4", "Topic4", "Topic4", "Topic4", "Topic4", "Topic4", "Topic4", "Topic4", "Topic4", "Topic4", "Topic4", "Topic4", "Topic4", "Topic4", "Topic4", "Topic4"], "logprob": [30.0, 29.0, 28.0, 27.0, 26.0, 25.0, 24.0, 23.0, 22.0, 21.0, 20.0, 19.0, 18.0, 17.0, 16.0, 15.0, 14.0, 13.0, 12.0, 11.0, 10.0, 9.0, 8.0, 7.0, 6.0, 5.0, 4.0, 3.0, 2.0, 1.0, -3.457900047302246, -3.457900047302246, -3.457900047302246, -3.457900047302246, -3.457900047302246, -3.457900047302246, -3.457900047302246, -3.457900047302246, -3.457900047302246, -3.457900047302246, -3.457900047302246, -3.457900047302246, -3.457900047302246, -3.457900047302246, -3.457900047302246, -3.457900047302246, -3.457900047302246, -3.457900047302246, -3.457900047302246, -3.457900047302246, -4.991799831390381, -4.991799831390381, -5.269400119781494, -5.269400119781494, -5.269400119781494, -5.269400119781494, -3.4576001167297363, -5.44379997253418, -5.44379997253418, -5.44379997253418, -2.794100046157837, -4.991099834442139, -4.375899791717529, -5.1209001541137695, -5.120100021362305, -5.267899990081787, -5.268599987030029, -3.6577000617980957, -3.6577000617980957, -3.6577000617980957, -3.6577000617980957, -3.6594998836517334, -3.659600019454956, -3.7741000652313232, -3.774199962615967, -3.7741000652313232, -3.774199962615967, -3.7741000652313232, -3.7743000984191895, -3.7743000984191895, -3.7743000984191895, -3.7743000984191895, -3.774399995803833, -3.7744998931884766, -3.774600028991699, -3.774600028991699, -3.774899959564209, -3.6577000617980957, -4.224699974060059, -5.071400165557861, -5.071400165557861, -5.071400165557861, -5.071400165557861, -5.071400165557861, -3.6577000617980957, -5.659200191497803, -5.659200191497803, -5.071499824523926, -3.159600019454956, -4.703800201416016, -4.703999996185303, -4.062099933624268, -4.062300205230713, -4.062300205230713, -4.0625, -4.062699794769287, -4.06279993057251, -4.06279993057251, -4.062900066375732, -4.063000202178955, -4.0630998611450195, -4.326099872589111, -4.326099872589111, -4.326099872589111, -4.326099872589111, -4.326099872589111, -4.326099872589111, -4.326099872589111, -4.326099872589111, -4.329800128936768, -4.696000099182129, -4.696100234985352, -4.696400165557861, -4.696400165557861, -4.696599960327148, -4.696899890899658, -4.6971001625061035, -4.697299957275391, -4.697800159454346, -4.697800159454346, -4.697800159454346, -3.180299997329712, -4.060800075531006, -3.1789000034332275, -4.062699794769287, -4.060200214385986, -4.3282999992370605, -4.696300029754639, -4.696400165557861, -3.90310001373291, -4.48799991607666, -4.48799991607666, -4.48799991607666, -4.48799991607666, -4.48799991607666, -4.48799991607666, -4.48799991607666, -4.48799991607666, -4.48799991607666, -4.48799991607666, -4.489799976348877, -4.489799976348877, -4.490200042724609, -4.490200042724609, -4.490200042724609, -4.490200042724609, -4.490499973297119, -4.490499973297119, -4.490600109100342, -4.490600109100342, -4.490799903869629, -4.490799903869629, -4.490900039672852, -4.490900039672852, -4.490499973297119, -4.486800193786621, -4.48799991607666, -6.097300052642822, -6.097300052642822, -4.490900039672852, -3.896399974822998, -3.8947999477386475], "loglift": [30.0, 29.0, 28.0, 27.0, 26.0, 25.0, 24.0, 23.0, 22.0, 21.0, 20.0, 19.0, 18.0, 17.0, 16.0, 15.0, 14.0, 13.0, 12.0, 11.0, 10.0, 9.0, 8.0, 7.0, 6.0, 5.0, 4.0, 3.0, 2.0, 1.0, 0.34470000863075256, 0.34470000863075256, 0.34470000863075256, 0.34470000863075256, 0.34470000863075256, 0.34470000863075256, 0.34470000863075256, 0.34470000863075256, 0.34470000863075256, 0.34470000863075256, 0.34470000863075256, 0.34470000863075256, 0.34470000863075256, 0.34470000863075256, 0.34470000863075256, 0.34470000863075256, 0.34470000863075256, 0.34470000863075256, 0.34470000863075256, 0.34470000863075256, 0.3005000054836273, 0.3005000054836273, 0.28299999237060547, 0.28299999237060547, 0.28299999237060547, 0.28299999237060547, 0.27140000462532043, 0.2694999873638153, 0.2694999873638153, 0.2694999873638153, 0.10700000077486038, 0.14480000734329224, -0.18780000507831573, 0.020899999886751175, -0.18400000035762787, -0.07970000058412552, -0.01209999993443489, 1.687000036239624, 1.687000036239624, 1.687000036239624, 1.687000036239624, 1.6856000423431396, 1.6855000257492065, 1.6778000593185425, 1.6778000593185425, 1.6778000593185425, 1.6778000593185425, 1.6778000593185425, 1.6777000427246094, 1.6777000427246094, 1.6777000427246094, 1.6777000427246094, 1.6776000261306763, 1.6776000261306763, 1.67739999294281, 1.677299976348877, 1.6771999597549438, 1.645400047302246, 1.6394000053405762, 1.5080000162124634, 1.5080000162124634, 1.5080000162124634, 1.5080000162124634, 1.5080000162124634, 1.3818999528884888, 1.3481999635696411, 1.3481999635696411, 1.1610000133514404, -0.25850000977516174, 0.23229999840259552, -0.5159000158309937, 2.0922999382019043, 2.0920000076293945, 2.0920000076293945, 2.0917000770568848, 2.0915000438690186, 2.091399908065796, 2.091399908065796, 2.091200113296509, 2.091099977493286, 2.0910000801086426, 2.0515999794006348, 2.0515999794006348, 2.0515999794006348, 2.0515999794006348, 2.0515999794006348, 2.0515999794006348, 2.0515999794006348, 2.0515999794006348, 2.0469000339508057, 1.9700000286102295, 1.9697999954223633, 1.969599962234497, 1.969499945640564, 1.9693000316619873, 1.9688999652862549, 1.9687000513076782, 1.968400001525879, 1.9673999547958374, 1.9673999547958374, 1.9673999547958374, 1.0077999830245972, 1.127500057220459, -0.2777999937534332, 0.9768999814987183, -0.3310999870300293, 0.6078000068664551, 1.5968999862670898, 0.5601000189781189, 3.1951000690460205, 2.893199920654297, 2.893199920654297, 2.893199920654297, 2.8931000232696533, 2.8931000232696533, 2.8931000232696533, 2.8931000232696533, 2.8931000232696533, 2.8931000232696533, 2.8931000232696533, 2.890000104904175, 2.890000104904175, 2.8893001079559326, 2.8893001079559326, 2.8893001079559326, 2.88919997215271, 2.8887999057769775, 2.888700008392334, 2.8886001110076904, 2.8884999752044678, 2.8882999420166016, 2.888200044631958, 2.8880999088287354, 2.888000011444092, 2.2348999977111816, 2.032399892807007, 1.845900058746338, 0.9760000109672546, 0.9760000109672546, 0.8123000264167786, 0.29170000553131104, -0.9937000274658203]}, "token.table": {"Topic": [3, 2, 2, 3, 3, 3, 3, 3, 2, 2, 2, 1, 2, 3, 2, 3, 1, 2, 1, 3, 3, 3, 1, 1, 2, 3, 1, 3, 1, 2, 3, 4, 1, 2, 3, 4, 3, 3, 2, 2, 1, 1, 1, 2, 2, 3, 1, 3, 3, 3, 1, 3, 2, 2, 1, 3, 3, 3, 1, 1, 1, 1, 2, 3, 1, 2, 1, 2, 1, 2, 3, 2, 3, 1, 2, 1, 3, 1, 3, 1, 1, 2, 3, 1, 2, 2, 1, 3, 2, 1, 2, 2, 1, 1, 1, 1, 3, 1, 1, 1, 2, 3, 1, 2, 1, 1, 3, 2, 2, 3, 3, 2, 2, 3, 1, 3, 1, 4, 3, 3, 3, 2, 3], "Freq": [0.870487630367279, 0.8627400398254395, 0.9044466018676758, 0.9681030511856079, 0.8359799385070801, 0.8705419301986694, 0.870657205581665, 0.9674535393714905, 0.8627603054046631, 0.8879403471946716, 0.8627089858055115, 0.6008672714233398, 0.2575145363807678, 0.17167635262012482, 0.9041355848312378, 0.9680800437927246, 0.9805243015289307, 0.6811324954032898, 0.9947426319122314, 0.8706086874008179, 0.7257508039474487, 0.7257479429244995, 0.9947507977485657, 0.7095328569412231, 0.11825547367334366, 0.23651094734668732, 0.924163818359375, 0.07701364904642105, 0.5687889456748962, 0.1218833476305008, 0.2843944728374481, 0.04062778130173683, 0.7739484906196594, 0.1345997303724289, 0.07851651310920715, 0.011216644197702408, 0.8706662654876709, 0.9682761430740356, 0.8626686930656433, 0.9041414260864258, 0.9947437644004822, 0.9947441816329956, 0.9335857629776001, 0.8684913516044617, 0.8879430294036865, 0.7257481217384338, 0.8384785652160645, 0.2096196413040161, 0.7257495522499084, 0.8704676032066345, 0.6627020239830017, 0.33135101199150085, 0.9041335582733154, 0.8627376556396484, 0.9947404265403748, 0.8705700635910034, 0.9681779146194458, 0.7249849438667297, 0.9947488307952881, 0.9947518706321716, 0.9947440028190613, 0.7381070852279663, 0.21088773012161255, 0.10544386506080627, 0.9947409629821777, 0.8626641631126404, 0.9947413802146912, 0.8627479076385498, 0.9947457909584045, 0.666389524936676, 0.28559550642967224, 0.8627185821533203, 0.7257488965988159, 0.9538834095001221, 0.6811321377754211, 0.9947558641433716, 0.8707125186920166, 0.5137600302696228, 0.9681525230407715, 0.9805221557617188, 0.9947495460510254, 0.9041386842727661, 0.7257511019706726, 0.9947469234466553, 0.8626744151115417, 0.862741231918335, 0.9947463274002075, 0.967453122138977, 0.8628225922584534, 0.3138100206851959, 0.6276200413703918, 0.8879407644271851, 0.933578372001648, 0.9947415590286255, 0.9947376251220703, 0.3334590494632721, 0.6669180989265442, 0.9335858821868896, 0.9538747668266296, 0.6946896910667419, 0.8879381418228149, 0.7257474660873413, 0.9947468042373657, 0.8879416584968567, 0.9947426319122314, 0.9538748860359192, 0.7257484197616577, 0.8626227974891663, 0.9044743180274963, 0.8705406785011292, 0.7275258302688599, 0.8628063797950745, 0.8626861572265625, 0.968021810054779, 0.9947366714477539, 0.9681808948516846, 0.9538797736167908, 0.7458820939064026, 0.9674547910690308, 0.8704975843429565, 0.7275274395942688, 0.8673151731491089, 0.9680094122886658], "Term": ["alem\u00e1n", "alistan", "amarillo", "ascendi\u00f3", "atenci\u00f3n", "autor", "bastante", "bien", "cambio", "campeonato", "cantones", "casos", "casos", "casos", "centralista", "cifra", "cifras", "circule", "ciudadanos", "clave", "cl\u00ednica", "cobrar", "comparto", "confirmados", "confirmados", "confirmados", "contagios", "contagios", "coronavirus", "coronavirus", "coronavirus", "coronavirus", "covid", "covid", "covid", "covid", "cre\u00edamos", "decir", "decisi\u00f3n", "difunde", "difusi\u00f3n", "discusi\u00f3n", "domingo", "dos", "d\u00edas", "d\u00f3lares", "ecuador", "ecuador", "emergencia", "estudio", "fallecidos", "fallecidos", "fracaso", "frente", "haber", "hendrik", "horas", "infobae", "insumos", "inter\u00e9s", "julio", "junio", "junio", "junio", "llegado", "manab\u00ed", "mayor\u00eda", "ma\u00f1ana", "medios", "menos", "menos", "mientras", "mill\u00f3n", "ministerio", "minsaludcol", "misma", "mort\u00edfero", "mundo", "n\u00famero", "oficiales", "ola", "olvidar", "paciente", "parece", "pasar\u00edan", "pedernales", "peor", "pese", "portoviejo", "positivos", "positivos", "premierleague", "present\u00f3", "prevista", "primicias", "probables", "probables", "provincia", "p\u00fablica", "quedateencasa", "quevedo", "quiere", "quito", "reanudaci\u00f3n", "reporte", "salud", "salv\u00f3", "semana", "sem\u00e1foro", "streeck", "superficies", "tomar\u00e1", "tosagua", "totaliza", "tres", "tungurahua", "urgente", "vacuna", "ven", "vir\u00f3logo", "vivir", "\u00e9xito", "\u00faltimas"]}, "R": 30, "lambda.step": 0.01, "plot.opts": {"xlab": "PC1", "ylab": "PC2"}, "topic.order": [3, 4, 1, 2]};
 
 function LDAvis_load_lib(url, callback){
   var s = document.createElement('script');
@@ -19,7 +19,7 @@ function LDAvis_load_lib(url, callback){
 if(typeof(LDAvis) !== "undefined"){
    // already loaded: just create the visualization
    !function(LDAvis){
-       new LDAvis("#" + "ldavis_el10291402704959600802111671174", ldavis_el10291402704959600802111671174_data);
+       new LDAvis("#" + "ldavis_el6752140016528937584936342769", ldavis_el6752140016528937584936342769_data);
    }(LDAvis);
 }else if(typeof define === "function" && define.amd){
    // require.js is available: use it to load d3/LDAvis
@@ -27,14 +27,14 @@ if(typeof(LDAvis) !== "undefined"){
    require(["d3"], function(d3){
       window.d3 = d3;
       LDAvis_load_lib("https://cdn.rawgit.com/bmabey/pyLDAvis/files/ldavis.v1.0.0.js", function(){
-        new LDAvis("#" + "ldavis_el10291402704959600802111671174", ldavis_el10291402704959600802111671174_data);
+        new LDAvis("#" + "ldavis_el6752140016528937584936342769", ldavis_el6752140016528937584936342769_data);
       });
     });
 }else{
     // require.js not available: dynamically load d3 & LDAvis
     LDAvis_load_lib("https://cdnjs.cloudflare.com/ajax/libs/d3/3.5.5/d3.min.js", function(){
          LDAvis_load_lib("https://cdn.rawgit.com/bmabey/pyLDAvis/files/ldavis.v1.0.0.js", function(){
-                 new LDAvis("#" + "ldavis_el10291402704959600802111671174", ldavis_el10291402704959600802111671174_data);
+                 new LDAvis("#" + "ldavis_el6752140016528937584936342769", ldavis_el6752140016528937584936342769_data);
             })
          });
 }

diff --git a/controlador/procesos.py b/controlador/procesos.py
@@ -5,6 +5,13 @@ from controlador import modulo_tweets as tw
 from controlador import modulo_lec_escri as lc
 from controlador import modulo_maquinavec as mv
 from textblob import TextBlob 
+import gensim
+import pyLDAvis
+import pyLDAvis.gensim 
+from nltk.corpus import stopwords
+import gensim.corpora as corpora  
+from wordcloud import WordCloud
+
 
 from controlador import nlp as nl
 
@@ -102,13 +109,6 @@ def literal1(n):
   return rs
 ##########################################################
 def topicmodeling(n):
-  import gensim
-  import pyLDAvis
-  import pyLDAvis.gensim 
-  from nltk.corpus import stopwords
-  import gensim.corpora as corpora  
-  from wordcloud import WordCloud
-
   tpm = []
   #stopwords
   n4 = stopwords.words('spanish')
@@ -132,7 +132,7 @@ def topicmodeling(n):
   #Bolsa de palabras
   corpus = [id2word.doc2bow(text) for text in tweet]
   #algoritmo lda_model
-  lda_model = gensim.models.ldamodel.LdaModel(corpus=corpus,id2word=id2word,num_topics=4,random_state=100,update_every=1,chunksize=100,passes=10,alpha='auto',per_word_topics=True)
+  lda_model = gensim.models.ldamodel.LdaModel(corpus=corpus,id2word=id2word,num_topics=4,random_state=100,update_every=1,chunksize=100,passes=10,alpha='auto')
 
   topics = []
   for idx, topic in lda_model.print_topics(-1):
@@ -170,9 +170,10 @@ def topicmodeling(n):
   vis = pyLDAvis.gensim.prepare(lda_model,corpus,id2word) 
   pyLDAvis.save_html(vis,'templates/LDA_Visualization.html')
   
+  #Unir tweets en uno solo
   text = "".join(review for review in tt) 
   #wordcloud
-  wordcloud = WordCloud(stopwords=n4,max_font_size=50, max_words=100, background_color="white").generate(text)
+  wordcloud = WordCloud(stopwords=n4,max_font_size=50, max_words=110, background_color="white").generate(text)
   #Guardar Imagen
   wordcloud.to_file("static/wordc/0.png")
   return tpm
